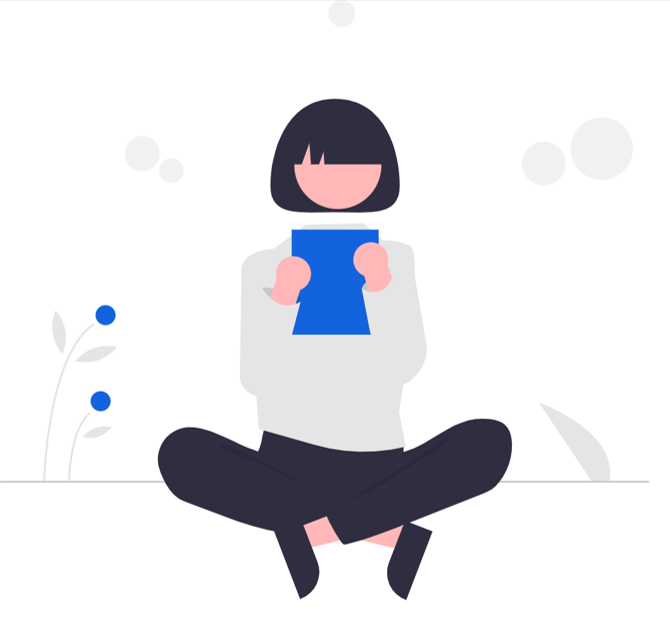
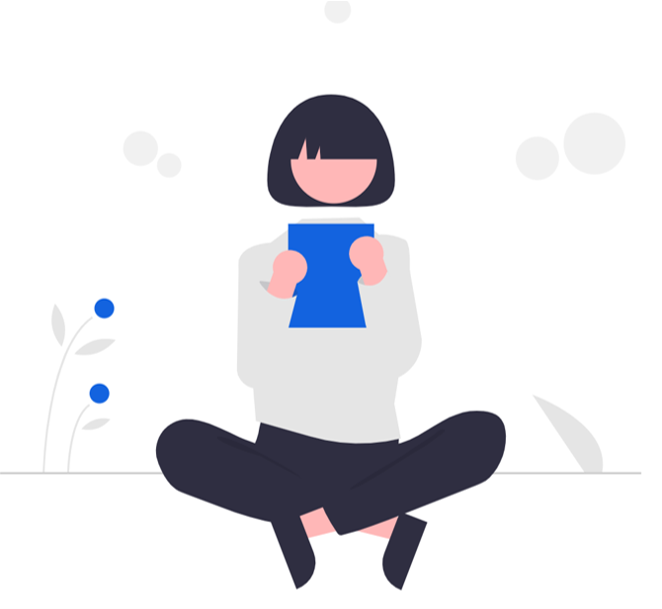
changed the home background from grey to white and added relevant scss

diff --git a/app/assets/stylesheets/components/_index.scss b/app/assets/stylesheets/components/_index.scss
@@ -9,3 +9,4 @@
 @import "card-product";
 @import "container";
 @import "images";
+@import "background";

diff --git a/app/assets/stylesheets/components/_background.scss b/app/assets/stylesheets/components/_background.scss
@@ -1,0 +1,3 @@
+.background-home {
+  background-color:white;
+}
